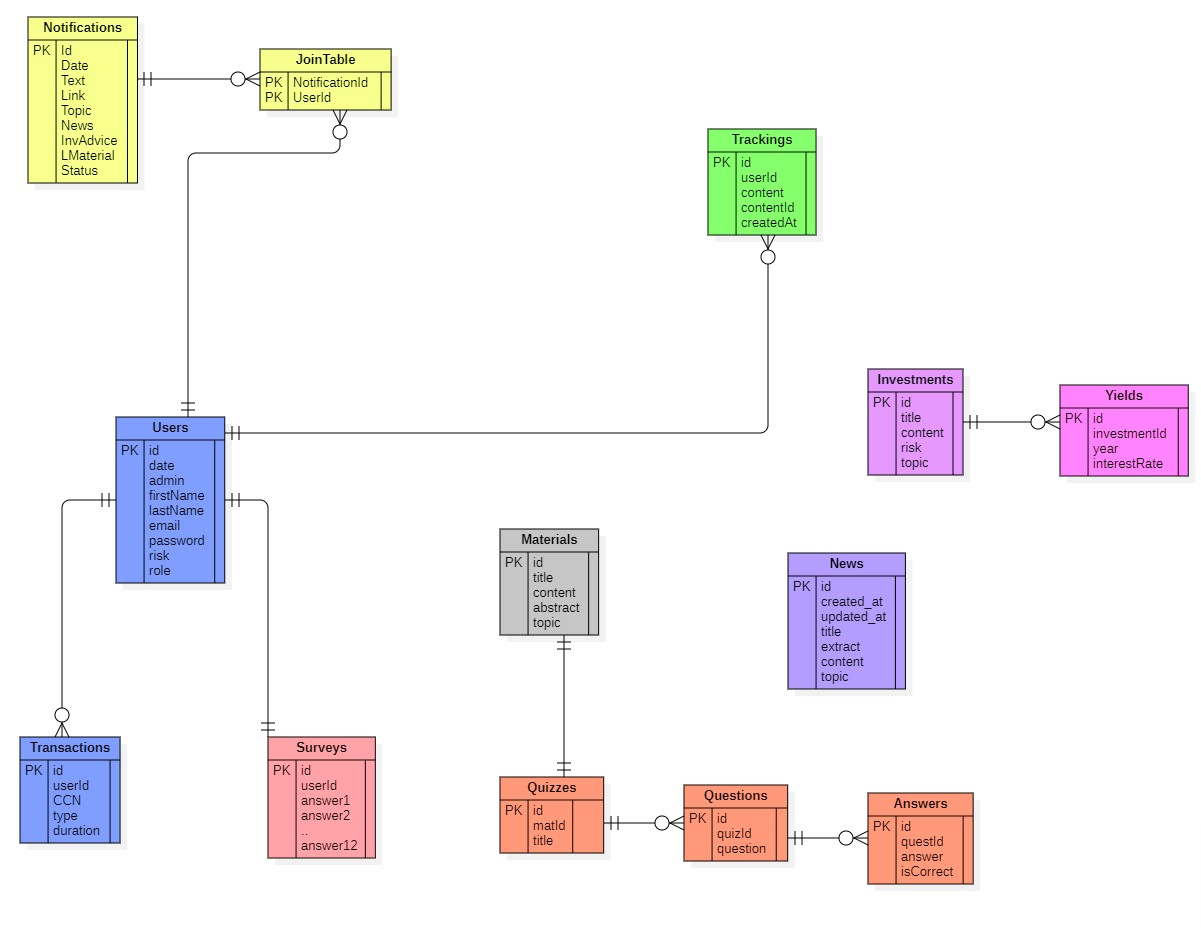
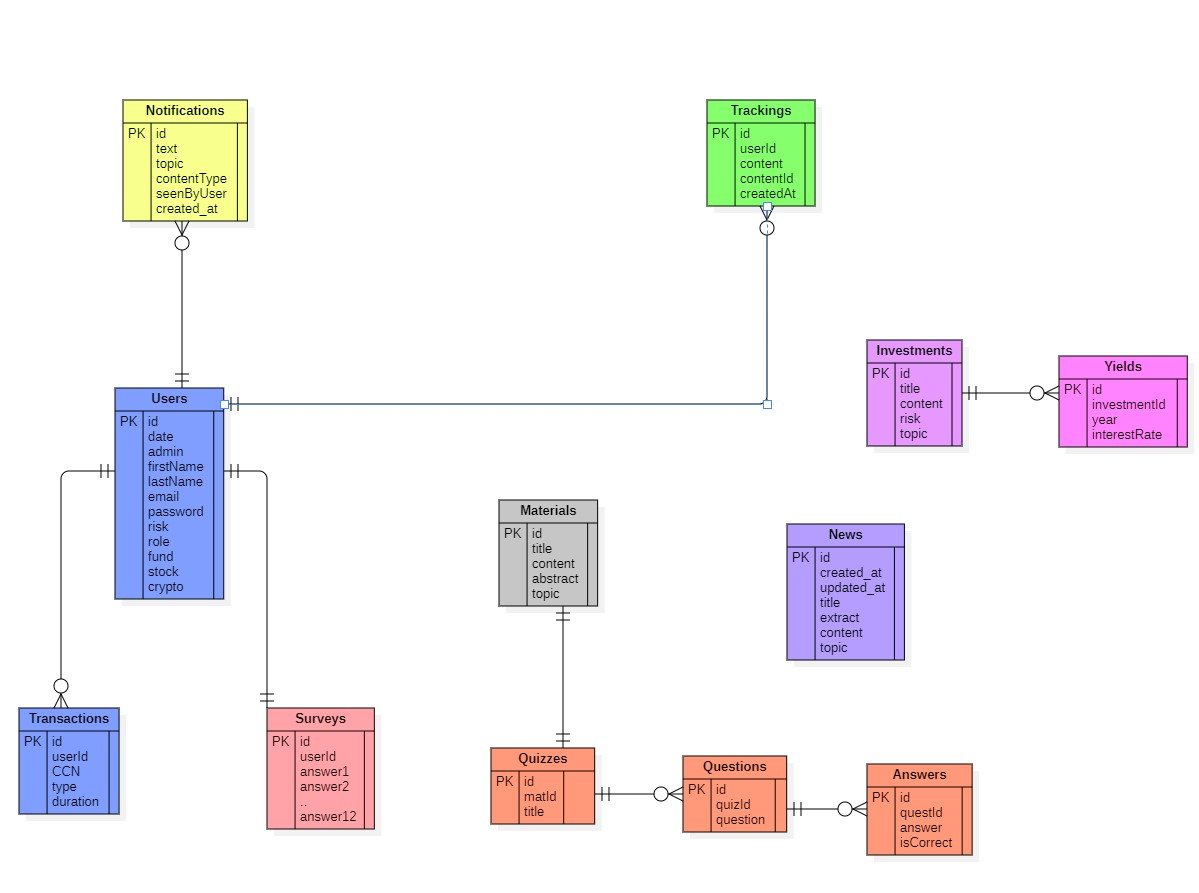
implement notification | add examples | code optimization

diff --git a/backend/src/models/notification.js b/backend/src/models/notification.js
@@ -1,9 +1,9 @@
-import { DataTypes, Model, STRING } from "sequelize";
+import { DataTypes, Model } from "sequelize";
 import sequelizeDb from "../database/db.js";
 
-class Investment extends Model {}
+class Notification extends Model {}
 
-Investment.init(
+Notification.init(
   {
     id: {
       type: DataTypes.INTEGER,
@@ -11,35 +11,35 @@ Investment.init(
       autoIncrement: true,
       allowNull: false,
     },
-    title: {
-      type: DataTypes.STRING,
-      allowNull: false,
-    },
-    content: {
+    text: {
       type: DataTypes.TEXT,
       allowNull: false,
     },
-    risk: {
+    contentType: {
       type: DataTypes.ENUM,
-      values: ["low", "medium", "high"],
+      values: ["quiz", "investment", "material"],
       allowNull: false,
       validate: {
-        isIn: [["low", "medium", "high"]],
+        isIn: [["quiz", "investment", "material"]],
       },
     },
     topic: {
       type: DataTypes.ENUM,
-      values: ["fund", "crypto", "stock"],
+      values: ["crypto", "stock", "fund"],
       allowNull: false,
       validate: {
         isIn: [["fund", "crypto", "stock"]],
       },
     },
+    seenByUser: {
+      type: DataTypes.BOOLEAN,
+      allowNull: false,
+    },
   },
   {
     sequelize: sequelizeDb,
-    tableName: "investments",
+    tableName: "notification",
   }
 );
 
-export default Investment;
+export default Notification;

diff --git a/backend/src/index.js b/backend/src/index.js
@@ -1,13 +1,13 @@
 import express from "express";
 import userRouter from "./routes/user_router.js";
 import sequelizeDb from "./database/db.js";
-import cors from "cors";
 import path from "path";
 import { fileURLToPath } from "url";
 import materialRouter from "./routes/material_router.js";
 import newsRouter from "./routes/news_router.js";
 import investmentRouter from "./routes/investments_router.js";
 import helmet from "helmet";
+import notificationRouter from "./routes/notification_router.js";
 
 await sequelizeDb.sync();
 
@@ -15,14 +15,8 @@ const app = express();
 const __filename = fileURLToPath(import.meta.url);
 const __dirname = path.dirname(__filename);
 
-var corsOptions = {
-  origin: "http://localhost:3000",
-  optionsSuccessStatus: 200,
-};
-
 app.use(
   helmet(),
-  cors(corsOptions),
   express.json(),
   express.static(path.join(__dirname, "public"))
 );
@@ -35,9 +29,13 @@ app.use("/user", userRouter);
 app.use("/material", materialRouter);
 app.use("/news", newsRouter);
 app.use("/investment", investmentRouter);
+app.use("/notification", notificationRouter);
 
-app.listen(process.env.PORT, () => {
+const server = app.listen(process.env.PORT, () => {
   console.log(`Server running at http://localhost:${process.env.PORT}`);
 });
+
+server.keepAliveTimeout = 600 * 1000;
+server.headersTimeout = 610 * 1000;
 
 export default app;

diff --git a/backend/src/controllers/notification_controller.js b/backend/src/controllers/notification_controller.js
@@ -1,0 +1,44 @@
+import { User, Notification } from "../models/index.js";
+
+class NotificationController {
+  async updateStatus(req, res) {
+    try {
+      const notification = await Notification.findOne({
+        where: {
+          id: req.body.id,
+          userId: req.userId,
+          seenByUser: false,
+        },
+      });
+      console.log(notification);
+      if (!notification) {
+        return res.status(404).json({ msg: "Data not found!" });
+      }
+      await notification.update({
+        seenByUser: true,
+      });
+      res.status(200).json({ msg: "Successfully!" });
+    } catch (e) {
+      return res.status(500).json({
+        msg: e.message,
+      });
+    }
+  }
+  async all(req, res) {
+    try {
+      const notifications = await Notification.findAll({
+        where: {
+          seenByUser: false,
+          userId: req.userId,
+        },
+        attributes: ["id", "text", "contentType", "topic", "createdAt"],
+      });
+      return res.status(200).json(notifications);
+    } catch (e) {
+      return res.status(500).json({
+        msg: e.message,
+      });
+    }
+  }
+}
+export default NotificationController;

diff --git a/backend/src/services/notification_service.js b/backend/src/services/notification_service.js
@@ -1,0 +1,46 @@
+import { User, Notification } from "../models/index.js";
+
+class NotificationService {
+  async addNotification(contentType, topic, title) {
+    try {
+      let users;
+      if (topic == "fund") {
+        users = await User.findAll({
+          where: {
+            fund: true,
+          },
+          attributes: ["id"],
+        });
+      } else if (topic == "stock") {
+        users = await User.findAll({
+          where: {
+            stock: true,
+          },
+          attributes: ["id"],
+        });
+      } else {
+        users = await User.findAll({
+          where: {
+            crypto: true,
+          },
+          attributes: ["id"],
+        });
+      }
+      if (users.length > 0) {
+        for (let i = 0; i < users.length; ++i) {
+          await Notification.create({
+            topic: topic,
+            contentType: contentType,
+            text: "New " + contentType + ": " + title,
+            seenByUser: false,
+            userId: users[i].id,
+          });
+        }
+      }
+    } catch (e) {
+      console.log(e);
+    }
+  }
+}
+
+export default new NotificationService();

diff --git a/backend/src/routes/notification_router.js b/backend/src/routes/notification_router.js
@@ -1,0 +1,20 @@
+import NotificationController from "../controllers/notification_controller.js";
+import NotificationValidator from "../validators/notification_validator.js";
+import authGuard from "../middlewares/auth_guard.js";
+import errorHandler from "../middlewares/error_handler.js";
+import express from "express";
+
+const notificationRouter = express.Router();
+const notificationValidator = new NotificationValidator();
+const notificationController = new NotificationController();
+
+notificationRouter.patch(
+  "/",
+  authGuard,
+  notificationValidator.checkId(),
+  errorHandler,
+  notificationController.updateStatus
+);
+notificationRouter.get("/", authGuard, notificationController.all);
+
+export default notificationRouter;

diff --git a/backend/src/models/index.js b/backend/src/models/index.js
@@ -10,6 +10,7 @@ import News from "./news.js";
 import Investment from "./investment.js";
 import Yield from "./yield.js";
 import Tracking from "./tracking.js";
+import Notification from "./notification.js";
 
 User.hasOne(Survey, { foreignKey: "userId" });
 Survey.belongsTo(User, { foreignKey: "userId" });
@@ -35,6 +36,9 @@ Yield.belongsTo(Investment, { foreignKey: "investmentId" });
 User.hasMany(Tracking, { foreignKey: "userId" });
 Tracking.belongsTo(User, { foreignKey: "userId" });
 
+User.hasMany(Notification, { foreignKey: "userId" });
+Notification.belongsTo(User, { foreignKey: "userId" });
+
 export {
   User,
   Survey,
@@ -48,4 +52,5 @@ export {
   Investment,
   Yield,
   Tracking,
+  Notification,
 };

diff --git a/backend/src/models/user.js b/backend/src/models/user.js
@@ -16,6 +16,9 @@ User.init(
       type: DataTypes.ENUM,
       values: ["user", "admin"],
       allowNull: false,
+      validate: {
+        isIn: [["user", "admin"]],
+      },
     },
     firstName: {
       type: DataTypes.STRING,
@@ -29,6 +32,9 @@ User.init(
       type: DataTypes.STRING,
       allowNull: false,
       unique: true,
+      validate: {
+        isEmail: true,
+      },
     },
     password: {
       type: DataTypes.STRING,
@@ -38,6 +44,9 @@ User.init(
       type: DataTypes.ENUM,
       values: ["low", "medium", "high"],
       allowNull: false,
+      validate: {
+        isIn: [["low", "medium", "high"]],
+      },
     },
     fund: {
       type: DataTypes.BOOLEAN,

diff --git a/backend/src/controllers/material_controller.js b/backend/src/controllers/material_controller.js
@@ -25,7 +25,7 @@ class MaterialController {
       if (!material) {
         return res.status(404).json({ message: "Not found." });
       } else {
-        TrackingService.add("Material", material.id, req.userId);
+        TrackingService.add("material", material.id, req.userId);
         res.status(200).json(material);
       }
     } catch (e) {
@@ -85,7 +85,7 @@ class MaterialController {
         output.push(temp);
       }
       if (output.length > 0) {
-        TrackingService.add("Quiz", quiz.id, req.userId);
+        TrackingService.add("quiz", quiz.id, req.userId);
         return res.status(200).json({
           id: quiz.id,
           title: quiz.title,

diff --git a/backend/src/models/tracking.js b/backend/src/models/tracking.js
@@ -17,8 +17,11 @@ Tracking.init(
     },
     content: {
       type: DataTypes.ENUM,
-      values: ["Material", "Quiz", "Investment"],
+      values: ["material", "quiz", "investment"],
       allowNull: false,
+      validate: {
+        isIn: [["quiz", "investment", "material"]],
+      },
     },
     contentId: {
       type: DataTypes.STRING,

diff --git a/backend/src/controllers/investments_controller.js b/backend/src/controllers/investments_controller.js
@@ -104,7 +104,7 @@ class InvestmentsController {
           investment: investment,
           yields: yields,
         };
-        TrackingService.add("Investment", investment.id, req.userId);
+        TrackingService.add("investment", investment.id, req.userId);
         return res.status(200).json(output);
       }
     } catch (e) {

diff --git a/backend/src/models/material.js b/backend/src/models/material.js
@@ -26,6 +26,10 @@ Material.init(
     topic: {
       type: DataTypes.ENUM,
       values: ["crypto", "stock", "fund", "basics"],
+      allowNull: false,
+      validate: {
+        isIn: [["fund", "crypto", "stock", "basics"]],
+      },
     },
   },
   {

diff --git a/backend/src/models/transaction.js b/backend/src/models/transaction.js
@@ -20,6 +20,9 @@ Transaction.init(
       type: DataTypes.ENUM,
       values: ["standard", "premium"],
       allowNull: false,
+      validate: {
+        isIn: [["standard", "premium"]],
+      },
     },
     duration: {
       type: DataTypes.INTEGER,
